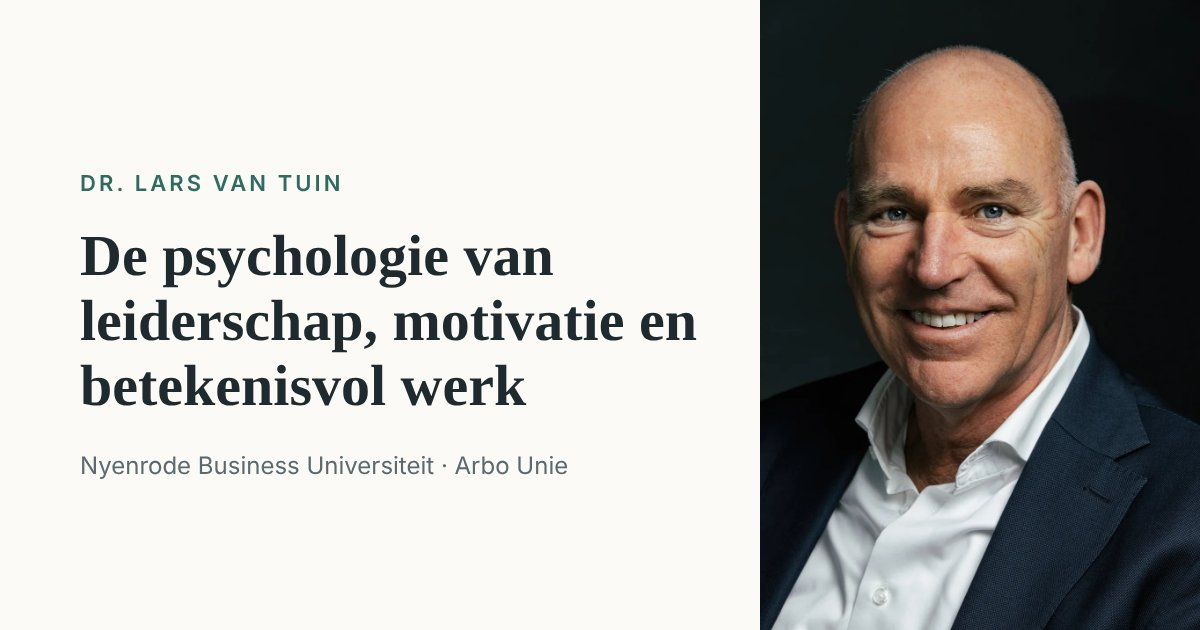
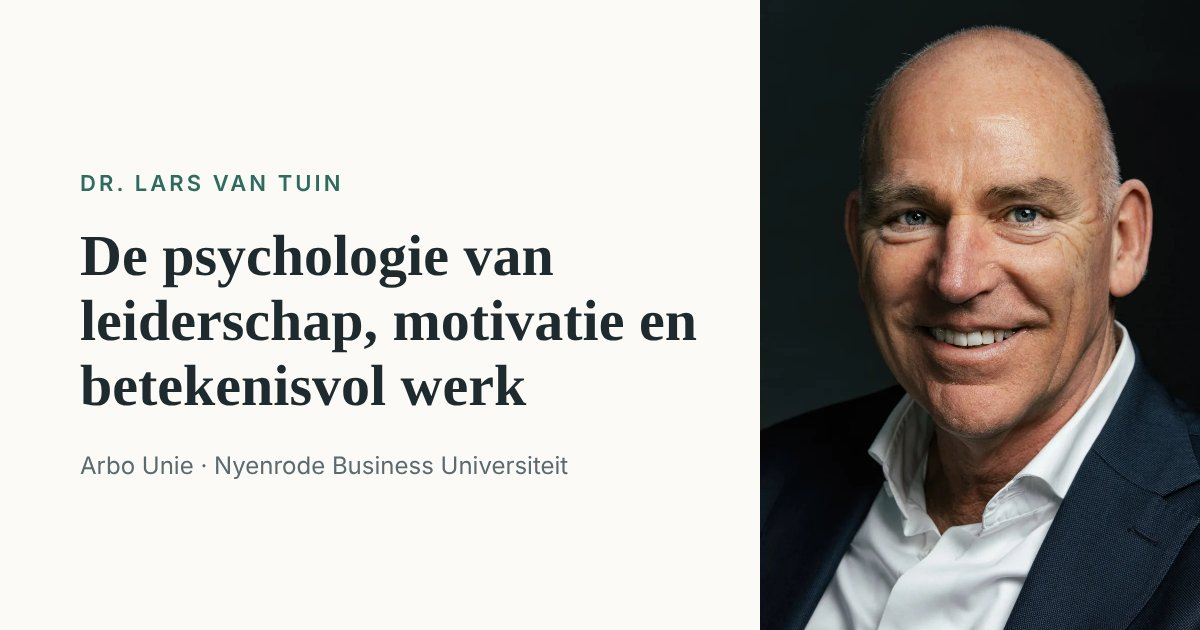
Arbo Unie en Nyenrode in Over mij en voettekst; losse portret.webp in hoofdmap opgeruimd
Claude-Session: https://claude.ai/code/session_01JLiW56dra78zm9y6Qetye6

Changed region(s): [[0.6167, 0.0302, 1.0, 1.0], [0.0617, 0.7238, 0.4933, 0.754]]

diff --git a/en/index.html b/en/index.html
@@ -81,7 +81,7 @@ description: "Research, lectures and talks on leadership, motivation, work engag
 <section id="about" class="section alt">
   <div class="wrap narrow">
     <h2>About</h2>
-    <p>I am an Associate Professor at Nyenrode Business University and affiliated with the Knowledge Institute of Work and Health at Arbo Unie, the Netherlands. At Nyenrode I teach and study leadership, motivation and meaning. At Arbo Unie I use occupational health data to study how working conditions, work engagement and well-being are related.</p>
+    <p>I am a researcher at the Knowledge Institute of Work and Health of Arbo Unie and an Associate Professor at Nyenrode Business University, the Netherlands. At Arbo Unie I use occupational health data to study how working conditions, work engagement and well-being are related. At Nyenrode I teach and study leadership, motivation and meaning.</p>
     <p>My path to academia ran through practice. After studying political science I worked in the semi-public sector and in telecommunications, most recently as business development manager for international internet strategy and mergers and acquisitions. I then became an executive coach. I worked with leaders in industries including automotive, financial services, energy, telecom, pharma and retail, was a mentor and program coach with Newfield Network in Asia, Europe, South Africa and the US, and a coach and guest lecturer in the Global Leadership Program of International Christian University in Tokyo.</p>
     <p>The questions I met in practice brought me back to research: why do people flourish in one job and burn out in another? I received my PhD in psychology on this topic from Utrecht University in 2021.</p>
     <dl class="cv">
@@ -91,7 +91,7 @@ description: "Research, lectures and talks on leadership, motivation, work engag
       <dt>1998</dt><dd>Postgraduate program, Ashridge (UK)</dd>
       <dt>1992</dt><dd>Political Science (cum laude), University of Amsterdam</dd>
     </dl>
-    <p><a href="{{ p.links.nyenrode }}">Profile at Nyenrode</a> · <a href="{{ p.links.kennisinstituut }}">Knowledge Institute of Work and Health</a></p>
+    <p><a href="{{ p.links.kennisinstituut }}">Knowledge Institute of Work and Health</a> · <a href="{{ p.links.nyenrode }}">Profile at Nyenrode</a></p>
   </div>
 </section>
 

diff --git a/index.html b/index.html
@@ -94,7 +94,7 @@ layout: default
 <section id="over" class="section alt">
   <div class="wrap narrow">
     <h2>Over mij</h2>
-    <p>Ik ben universitair hoofddocent aan Nyenrode Business Universiteit en verbonden aan het Kennisinstituut Werk en Gezondheid van Arbo Unie. Bij Nyenrode doceer en onderzoek ik leiderschap, motivatie en betekenisgeving. Bij Arbo Unie onderzoek ik met praktijkdata hoe werkomstandigheden, bevlogenheid en welzijn samenhangen.</p>
+    <p>Ik ben onderzoeker bij het Kennisinstituut Werk en Gezondheid van Arbo Unie en universitair hoofddocent aan Nyenrode Business Universiteit. Bij Arbo Unie onderzoek ik met praktijkdata hoe werkomstandigheden, bevlogenheid en welzijn samenhangen. Bij Nyenrode doceer en onderzoek ik leiderschap, motivatie en betekenisgeving.</p>
     <p>Mijn weg naar de wetenschap liep via de praktijk. Na mijn studie politicologie werkte ik bij de semi-overheid en in de telecommunicatie, als laatste als business development manager voor internationale internetstrategie en fusies en overnames. Daarna werd ik executive coach. Ik begeleidde leiders in onder meer de automotive, financiële dienstverlening, energie, telecom, farma en retail, was mentor- en programmacoach bij Newfield Network in Azië, Europa, Zuid-Afrika en de VS, en coach en gastdocent in het Global Leadership Program van de International Christian University in Tokio.</p>
     <p>De vragen die ik in die praktijk tegenkwam, brachten me terug naar de wetenschap: waarom bloeien mensen in het ene werk op en lopen ze in het andere leeg? In 2021 promoveerde ik daarop in de psychologie aan de Universiteit Utrecht.</p>
     <dl class="cv">
@@ -104,7 +104,7 @@ layout: default
       <dt>1998</dt><dd>Postdoctoraal programma, Ashridge (VK)</dd>
       <dt>1992</dt><dd>Politicologie (cum laude), Universiteit van Amsterdam</dd>
     </dl>
-    <p><a href="{{ p.links.nyenrode }}">Profiel bij Nyenrode</a> · <a href="{{ p.links.kennisinstituut }}">Kennisinstituut Werk en Gezondheid</a></p>
+    <p><a href="{{ p.links.kennisinstituut }}">Kennisinstituut Werk en Gezondheid</a> · <a href="{{ p.links.nyenrode }}">Profiel bij Nyenrode</a></p>
   </div>
 </section>
 

diff --git a/_layouts/default.html b/_layouts/default.html
@@ -21,12 +21,12 @@
     "@type": "Person",
     "name": "Lars van Tuin",
     "honorificPrefix": "Dr.",
-    "jobTitle": "Universitair hoofddocent",
+    "jobTitle": ["Onderzoeker", "Universitair hoofddocent"],
     "url": "{{ site.url }}{{ '/' | relative_url }}",
     "image": "{{ site.url }}{{ '/assets/img/portret.webp' | relative_url }}",
     "affiliation": [
-      {"@type": "CollegeOrUniversity", "name": "Nyenrode Business Universiteit"},
-      {"@type": "Organization", "name": "Arbo Unie, Kennisinstituut Werk en Gezondheid"}
+      {"@type": "Organization", "name": "Arbo Unie, Kennisinstituut Werk en Gezondheid"},
+      {"@type": "CollegeOrUniversity", "name": "Nyenrode Business Universiteit"}
     ],
     "alumniOf": [
       {"@type": "CollegeOrUniversity", "name": "Universiteit Utrecht"},
@@ -70,8 +70,8 @@
 
   <footer class="site-footer">
     <div class="wrap">
-      <p>© {{ site.time | date: "%Y" }} {{ site.data.profiel.naam }} ·
-        <a href="{{ site.data.profiel.links.linkedin }}">LinkedIn</a> ·
+      <p>© {{ site.time | date: "%Y" }} {{ site.data.profiel.naam }} · Arbo Unie, Kennisinstituut Werk en Gezondheid · Nyenrode Business Universiteit</p>
+      <p><a href="{{ site.data.profiel.links.linkedin }}">LinkedIn</a> ·
         <a href="{{ site.data.profiel.links.orcid }}">ORCID</a> ·
         <a href="{{ site.data.profiel.links.scholar }}">Google Scholar</a></p>
     </div>

diff --git a/assets/css/style.css b/assets/css/style.css
@@ -90,3 +90,7 @@ figcaption { font-size: .8rem; color: var(--muted); margin-top: .4rem; }
 .cv { display: grid; grid-template-columns: 4rem 1fr; gap: .35rem 1rem; margin: 1.5rem 0; padding: 1rem 0; border-top: 1px solid var(--line); border-bottom: 1px solid var(--line); }
 .cv dt { font-weight: 600; color: var(--muted); font-variant-numeric: tabular-nums; }
 .cv dd { margin: 0; }
+
+.affil { font-size: .82rem; text-transform: uppercase; letter-spacing: .1em; font-weight: 600; margin: 0 0 1.1rem; }
+.affil a { display: block; color: var(--accent); text-decoration: none; line-height: 1.6; }
+.affil a:hover { text-decoration: underline; }
